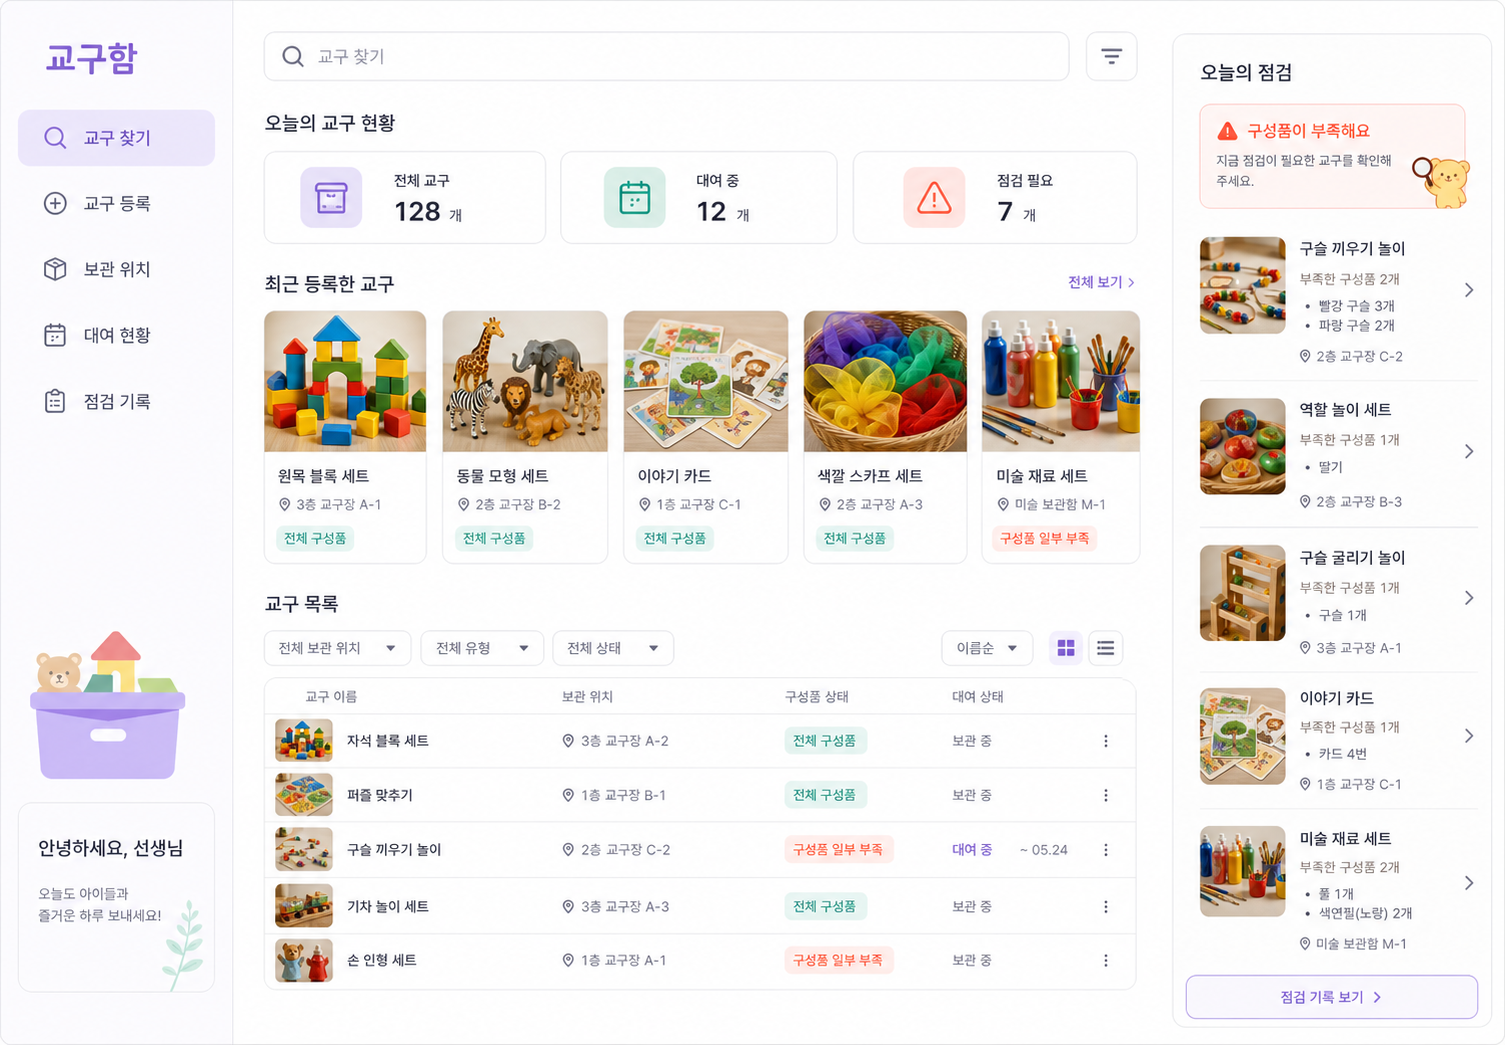
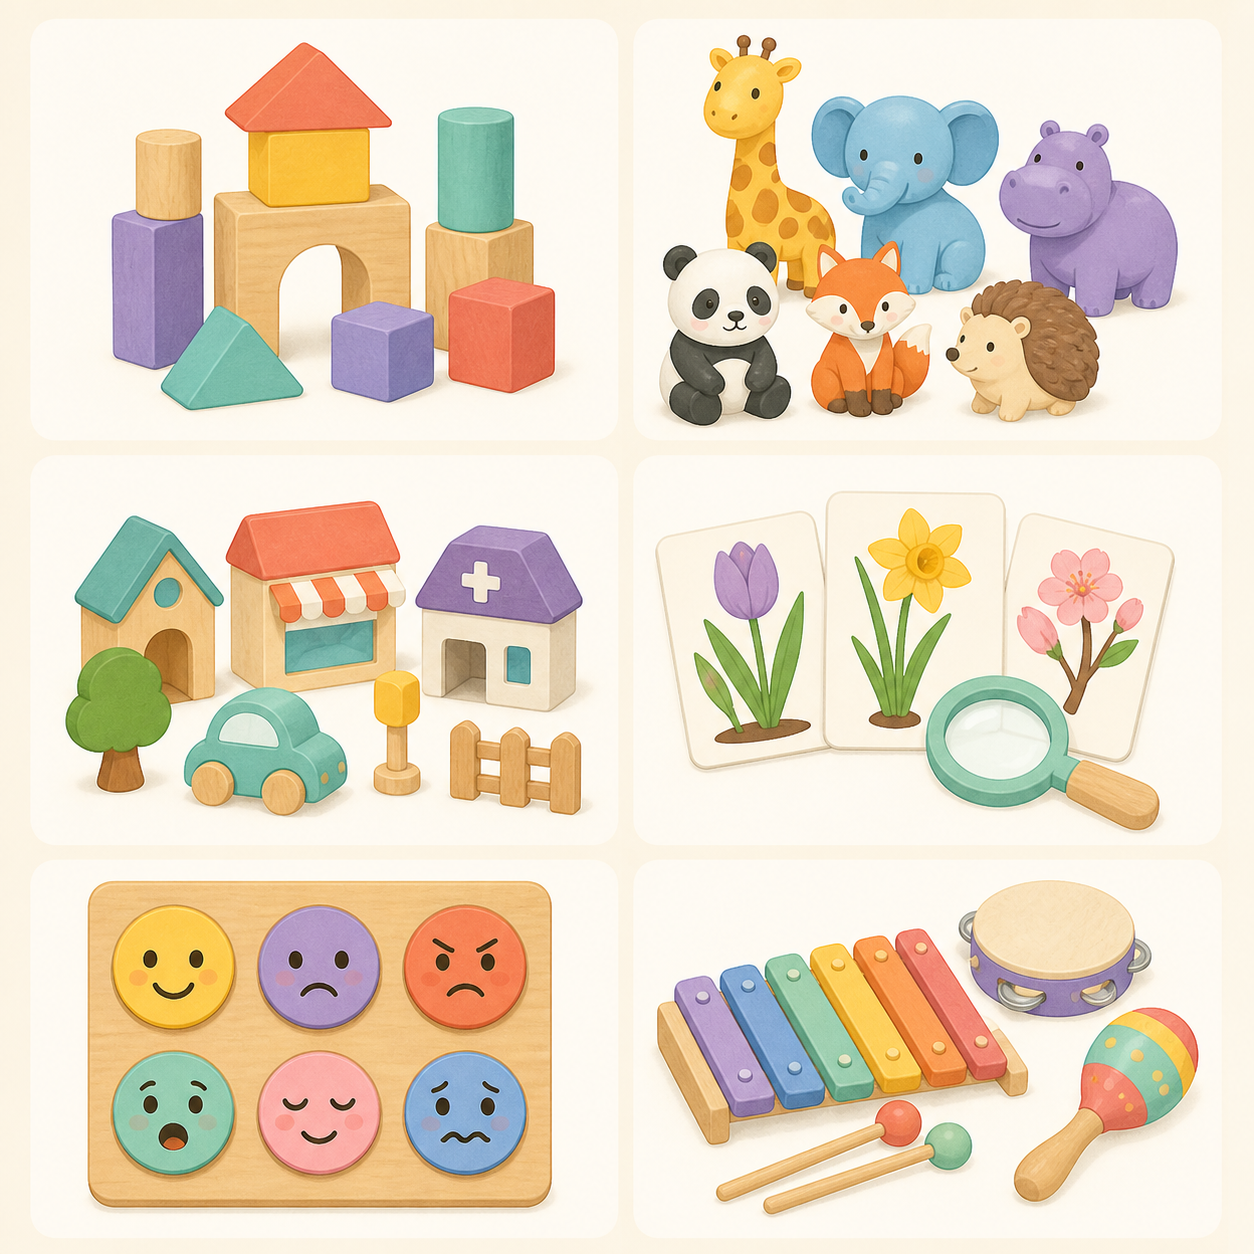
위치개선

diff --git a/index.html b/index.html
@@ -1,5 +1,2 @@
-<!doctype html><html lang="ko"><head><meta charset="UTF-8"><meta name="viewport" content="width=device-width,initial-scale=1"><title>놀잇감 지도</title><style>
-*{box-sizing:border-box}body{margin:0;background:#f7f8fc;color:#303047;font-family:Arial,'Noto Sans KR',sans-serif}.app{display:flex;min-height:100vh}.side{width:235px;background:#fff;border-right:1px solid #e8e8f0;padding:28px 18px}.brand{font-size:21px;font-weight:800;margin:0 8px 45px;color:#6258bb}.brand i{display:inline-grid;place-items:center;width:32px;height:32px;background:#8175d8;color:#fff;border-radius:11px;font-style:normal;margin-right:8px}.side h5{font-size:10px;color:#aaa8bb;letter-spacing:1px;margin:0 10px 13px}.nav{display:block;width:100%;padding:12px 13px;margin:4px 0;border:0;background:none;border-radius:10px;text-align:left;color:#77758b;cursor:pointer}.nav.active{background:#eeecff;color:#7064ce;font-weight:bold}.workspace{margin-top:45px;padding:18px 12px;background:#f3f2ff;border-radius:14px;color:#7064ce;font-size:12px;line-height:1.8}.workspace b{display:block;font-size:14px;color:#403b61}.main{flex:1;padding:27px 42px;max-width:1050px}.top{display:flex;gap:12px;align-items:center;margin-bottom:30px}.search{flex:1;background:#fff;border:1px solid #e6e5ee;border-radius:11px;padding:13px 16px;color:#aaa8bb}.search input{border:0;outline:0;width:90%;font-size:13px;margin-left:8px}.user{width:33px;height:33px;border-radius:50%;display:grid;place-items:center;background:#f2dfd4;color:#895d48}.hero{padding:29px 32px;background:#e6f7f0;border-radius:20px;display:flex;justify-content:space-between;align-items:center;margin-bottom:24px;position:relative;overflow:hidden}.hero:after{content:'✦  ◌  ⬡';position:absolute;right:28px;bottom:10px;font-size:37px;color:#a9d9c8;letter-spacing:10px}.hero h1{margin:3px 0 8px;font-size:27px;letter-spacing:-1.5px}.hero p{margin:0;color:#7b9c94;font-size:12px}.hero small{color:#8175d8;font-weight:bold;letter-spacing:1px}.button{border:0;border-radius:9px;background:#8175d8;color:white;padding:12px 16px;font-weight:bold;cursor:pointer;z-index:1}.tabs{background:#fff;border-radius:15px;padding:19px 21px;margin-bottom:22px;box-shadow:0 4px 14px #38365b08}.tabs h2{font-size:15px;margin:0 0 14px}.age button,.area button{border:0;background:#f5f4f9;border-radius:8px;padding:9px 13px;margin:0 5px 5px 0;color:#77758b;cursor:pointer}.age button.sel,.area button.sel{background:#39364f;color:white}.area{border-top:1px solid #eeeef4;padding-top:13px;margin-top:9px}.area:before{content:'놀이 영역';display:block;font-size:11px;color:#8175d8;font-weight:bold;margin-bottom:8px}.catalog-head{display:flex;justify-content:space-between;align-items:end;margin:29px 0 15px}.catalog-head h2{font-size:17px;margin:0 0 5px}.catalog-head p{font-size:11px;color:#aaa8b2;margin:0}.sort{border:1px solid #e6e5ee;background:#fff;padding:8px 11px;border-radius:8px;color:#77758b}.grid{display:grid;grid-template-columns:repeat(3,1fr);gap:15px}.card{background:#fff;border-radius:15px;overflow:hidden;box-shadow:0 5px 16px #38365b0d;cursor:pointer}.pic{height:125px;display:grid;place-items:center;position:relative}.pic img{width:100%;height:100%;object-fit:cover;mix-blend-mode:multiply;opacity:.82}.pic.one{background:#eae7ff}.pic.two{background:#dcf3eb}.pic.three{background:#fff0df}.stock{position:absolute;right:9px;top:9px;background:#fff;padding:5px 7px;border-radius:6px;color:#6b62c4;font-size:10px;font-weight:bold}.card-body{padding:14px}.card h3{font-size:13px;margin:0 0 10px}.tag{display:inline-block;background:#f4f3f7;border-radius:4px;padding:4px 6px;margin-right:4px;color:#858291;font-size:9px}.place{margin-top:13px;color:#77758b;font-size:10px}.place b{color:#6b62c4;font-weight:normal}.right{width:285px;background:#fff;border-left:1px solid #ebebf1;padding:36px 24px}.right h2{font-size:17px;margin:0 0 5px}.right p{font-size:11px;color:#aaa8b2}.map{height:210px;border:1px solid #e4e2ef;border-radius:14px;margin:24px 0 13px;padding:17px;background:#fafaff}.map-title{font-size:10px;color:#aaa8b2;margin-bottom:12px}.shelf{display:grid;grid-template-columns:repeat(3,1fr);gap:7px}.shelf div{height:43px;background:#eeedf8;border:1px solid #dfddf0;border-radius:7px;display:grid;place-items:center;font-size:10px;color:#8b88a0}.shelf .picked{background:#8175d8;color:#fff;border-color:#8175d8;box-shadow:0 5px 10px #8175d855}.selected-info{background:#f3f2ff;border-radius:12px;padding:13px;font-size:11px;line-height:1.7}.selected-info b{font-size:13px}.rent{margin-top:24px;border-top:1px solid #eeeef4;padding-top:20px}.rent-row{display:flex;justify-content:space-between;padding:11px 0;border-bottom:1px solid #f0eff4;font-size:11px}.rent-row span{color:#8175d8}.modal{position:fixed;inset:0;background:#28274455;display:none;place-items:center}.modal.on{display:grid}.form{width:400px;background:#fff;border-radius:17px;padding:28px}.form h2{margin:0 0 7px;font-size:20px}.form p{color:#aaa8b2;font-size:11px;margin:0 0 20px}.form label{display:block;font-size:11px;font-weight:bold;margin:12px 0}.form input,.form select{width:100%;padding:10px;margin-top:6px;border:1px solid #e5e4ed;border-radius:8px}.form .button{width:100%;margin-top:12px}.close{float:right;border:0;background:none;font-size:22px;color:#aaa;cursor:pointer}@media(max-width:1050px){.right{display:none}.grid{grid-template-columns:repeat(2,1fr)}}@media(max-width:650px){.side{display:none}.main{padding:20px}.grid{grid-template-columns:1fr}.hero{padding:24px;display:block}.hero .button{margin-top:18px}.top{flex-wrap:wrap}.search{flex-basis:100%}}
-</style></head><body><div class="app"><aside class="side"><div class="brand"><i>⌖</i>놀잇감 지도</div><h5>EXPLORE</h5><button class="nav active">⌖ 놀잇감 찾기</button><button class="nav" onclick="openRent()">□ 대여 현황</button><button class="nav" onclick="openForm()">＋ 놀잇감 등록</button><div class="workspace"><b>햇살어린이집</b>교구실 · 3번 선반 · B-02<br>현재 248개의 놀잇감</div></aside><main class="main"><div class="top"><div class="search">⌕<input id="search" oninput="filter()" placeholder="놀잇감 이름으로 검색해보세요"></div><div class="user">김</div></div><section class="hero"><div><small>PLAY MATERIAL MAP</small><h1>필요한 놀잇감,<br>어디에 있는지 바로 찾아요</h1><p>연령과 놀이 영역을 선택하고 보관 위치를 확인해보세요.</p></div><button class="button" onclick="openForm()">＋ 놀잇감 등록</button></section><section class="tabs"><h2>우리 반 놀잇감 둘러보기</h2><div class="age"><button class="sel" onclick="agePick(this)">전체</button><button onclick="agePick(this)">만 3세</button><button onclick="agePick(this)">만 4세</button><button onclick="agePick(this)">만 5세</button></div><div class="area"><button class="sel">전체</button><button>쌓기놀이</button><button>역할놀이</button><button>언어놀이</button><button>자연탐구</button><button>음률놀이</button></div></section><div class="catalog-head"><div><h2>놀잇감 목록</h2><p>선택한 놀잇감을 누르면 오른쪽 지도에서 위치를 확인할 수 있어요.</p></div><select class="sort"><option>최근 등록순</option><option>이름순</option></select></div><div class="grid" id="grid"><article class="card" data-name="동물원 만들기 세트" onclick="pick('동물원 만들기 세트','만 4세 · 역할놀이','교구실 · 3번 선반 · B-02')"><div class="pic one"><img src="assets/concept.png"><span class="stock">2세트</span></div><div class="card-body"><h3>동물원 만들기 세트</h3><span class="tag">만 4세</span><span class="tag">역할놀이</span><div class="place">⌖ 교구실 · 3번 선반 · <b>B-02</b></div></div></article><article class="card" data-name="우리 동네 역할놀이" onclick="pick('우리 동네 역할놀이','만 5세 · 역할놀이','역할놀이장 · A-01')"><div class="pic two"><img src="assets/concept.png"><span class="stock">1세트</span></div><div class="card-body"><h3>우리 동네 역할놀이</h3><span class="tag">만 5세</span><span class="tag">역할놀이</span><div class="place">⌖ 역할놀이장 · <b>A-01</b></div></div></article><article class="card" data-name="봄꽃 관찰 카드" onclick="pick('봄꽃 관찰 카드','만 3세 · 자연탐구','자료실 · C-03')"><div class="pic three"><img src="assets/concept.png"><span class="stock">24장</span></div><div class="card-body"><h3>봄꽃 관찰 카드</h3><span class="tag">만 3세</span><span class="tag">자연탐구</span><div class="place">⌖ 자료실 · <b>C-03</b></div></div></article></div></main><aside class="right"><h2>보관 위치</h2><p>선택한 놀잇감이 있는 곳이에요.</p><div class="map"><div class="map-title">교구실 · 3번 선반</div><div class="shelf"><div>A-01</div><div>A-02</div><div>A-03</div><div>B-01</div><div class="picked">B-02</div><div>B-03</div><div>C-01</div><div>C-02</div><div>C-03</div></div></div><div class="selected-info"><b id="picked-name">동물원 만들기 세트</b><br><span id="picked-meta">만 4세 · 역할놀이</span><br>● <span id="picked-place">교구실 · 3번 선반 · B-02</span></div><div class="rent"><h2>대여 중</h2><div class="rent-row">우리 동네 역할놀이 <span>무지개반</span></div><div class="rent-row">동물 피규어 세트 <span>햇살반</span></div></div></aside></div><div class="modal" id="formModal"><form class="form" onsubmit="save(event)"><button type="button" class="close" onclick="closeModal()">×</button><h2>놀잇감 등록하기</h2><p>이름과 위치만 입력해도 관리가 시작돼요.</p><label>놀잇감명<input id="newName" required placeholder="예: 동물 피규어 세트"></label><label>연령<select id="newAge"><option>만 3세</option><option>만 4세</option><option>만 5세</option></select></label><label>놀이 영역<select><option>쌓기놀이</option><option>역할놀이</option><option>언어놀이</option><option>자연탐구</option><option>음률놀이</option></select></label><label>보관 위치<input id="newPlace" required placeholder="예: 교구실 · 3번 선반 · B-02"></label><button class="button">목록에 저장하기</button></form></div><div class="modal" id="rentModal"><section class="form"><button class="close" onclick="closeRent()">×</button><h2>대여 현황</h2><p>현재 다른 반에서 사용 중인 놀잇감입니다.</p><div class="rent-row">우리 동네 역할놀이 <span>무지개반 · 오늘 반납</span></div><div class="rent-row">동물 피규어 세트 <span>햇살반 · 내일 반납</span></div><button class="button" onclick="closeRent()">확인했어요</button></section></div><script>
-function openForm(){document.getElementById('formModal').classList.add('on')}function closeModal(){document.getElementById('formModal').classList.remove('on')}function openRent(){document.getElementById('rentModal').classList.add('on')}function closeRent(){document.getElementById('rentModal').classList.remove('on')}function pick(n,m,p){document.getElementById('picked-name').textContent=n;document.getElementById('picked-meta').textContent=m;document.getElementById('picked-place').textContent=p}function agePick(b){document.querySelectorAll('.age button').forEach(x=>x.classList.remove('sel'));b.classList.add('sel')}function filter(){let q=document.getElementById('search').value.toLowerCase();document.querySelectorAll('.card').forEach(c=>c.style.display=c.dataset.name.toLowerCase().includes(q)?'block':'none')}function save(e){e.preventDefault();let n=document.getElementById('newName').value,p=document.getElementById('newPlace').value;let c=document.createElement('article');c.className='card';c.dataset.name=n;c.innerHTML='<div class="pic one"><img src="assets/concept.png"><span class="stock">신규</span></div><div class="card-body"><h3>'+n+'</h3><span class="tag">'+document.getElementById('newAge').value+'</span><div class="place">⌖ '+p+'</div></div>';c.onclick=()=>pick(n,document.getElementById('newAge').value,p);document.getElementById('grid').prepend(c);closeModal();e.target.reset();alert('놀잇감이 등록되었어요.')} 
-</script></body></html>
+<!doctype html><html lang="ko"><head><meta charset="UTF-8"><meta name="viewport" content="width=device-width,initial-scale=1"><title>놀잇감 지도</title><style>body{margin:0;background:#f7f8fc;color:#34334b;font:14px Arial,sans-serif}.app{display:flex;min-height:100vh}.side{width:220px;background:#fff;border-right:1px solid #e8e7f0;padding:28px 16px}.brand{font-size:20px;font-weight:800;color:#6b60c8;margin:0 8px 45px}.brand b{display:inline-grid;place-items:center;background:#8175d8;color:#fff;border-radius:10px;width:32px;height:32px;margin-right:8px}.nav{width:100%;display:block;border:0;background:none;padding:13px;border-radius:9px;text-align:left;color:#77758b;margin:3px 0;cursor:pointer}.nav.active{background:#efedff;color:#6b60c8;font-weight:bold}.main{flex:1;padding:28px 40px;max-width:1000px}.top{display:flex;gap:12px;margin-bottom:28px}.search{background:white;border:1px solid #e7e5ef;border-radius:10px;padding:12px 15px;flex:1;color:#999}.search input{border:0;outline:0;width:90%;font-size:13px;margin-left:8px}.hero{background:#def4eb;border-radius:20px;padding:28px 30px;display:flex;justify-content:space-between;align-items:center;margin-bottom:22px}.hero h1{font-size:27px;margin:7px 0}.hero p{color:#73968d;margin:0;font-size:12px}.hero small{color:#7568cf;font-weight:bold;letter-spacing:1px}.button{background:#8175d8;border:0;border-radius:9px;color:#fff;padding:12px 15px;font-weight:bold;cursor:pointer}.tabs,.card{background:#fff;border-radius:14px;box-shadow:0 4px 15px #3b37610b}.tabs{padding:18px 20px}.tabs h2,.right h2{font-size:16px;margin:0 0 13px}.tabs button{border:0;background:#f4f3f8;color:#77758b;padding:9px 12px;border-radius:8px;margin:0 5px 5px 0;cursor:pointer}.tabs button.sel{background:#3d3a55;color:#fff}.area{border-top:1px solid #eeeef3;margin-top:10px;padding-top:13px}.area:before{content:'놀이 영역';display:block;color:#7568cf;font-size:11px;font-weight:bold;margin-bottom:7px}.head{display:flex;justify-content:space-between;align-items:end;margin:28px 0 14px}.head h2{font-size:17px;margin:0 0 5px}.head p{font-size:11px;color:#aaa8b2;margin:0}.grid{display:grid;grid-template-columns:repeat(3,1fr);gap:15px}.card{overflow:hidden;cursor:pointer}.pic{height:120px;display:grid;place-items:center;position:relative}.pic img{width:100%;height:100%;object-fit:cover;mix-blend-mode:multiply;opacity:.82}.one{background:#eae7ff}.two{background:#dcf3eb}.three{background:#fff0df}.stock{position:absolute;right:9px;top:9px;background:#fff;padding:5px 7px;border-radius:6px;color:#6b60c8;font-size:10px}.body{padding:14px}.body h3{font-size:13px;margin:0 0 9px}.tag{background:#f4f3f8;border-radius:4px;padding:4px 6px;margin-right:4px;font-size:9px;color:#858291}.place{font-size:10px;color:#77758b;margin-top:13px}.place b{color:#6b60c8}.right{width:275px;background:#fff;border-left:1px solid #e9e8ef;padding:35px 23px}.right p{font-size:11px;color:#aaa8b2}.map{border:1px solid #e5e3ef;border-radius:13px;padding:15px;background:#fafaff;margin:22px 0 12px}.map-title{font-size:10px;color:#aaa8b2;margin-bottom:11px}.shelf{display:grid;grid-template-columns:repeat(3,1fr);gap:7px}.shelf button{height:42px;border:1px solid #e0def0;background:#efeff8;border-radius:7px;color:#88859c;cursor:pointer}.shelf button.selected{background:#8175d8;color:#fff;box-shadow:0 5px 12px #8175d855}.info{background:#f1efff;padding:13px;border-radius:11px;font-size:11px;line-height:1.7}.info strong{font-size:13px}.modal{position:fixed;inset:0;background:#28274455;display:none;place-items:center}.modal.on{display:grid}.form{width:390px;background:#fff;border-radius:16px;padding:27px}.form h2{margin:0 0 6px}.form p{font-size:11px;color:#aaa8b2}.form label{display:block;font-size:11px;font-weight:bold;margin:13px 0}.form input,.form select{display:block;width:100%;padding:10px;margin-top:6px;border:1px solid #e5e4ed;border-radius:8px}.location-picker{display:grid;grid-template-columns:repeat(3,1fr);gap:6px;margin-top:8px}.location-picker button{padding:9px 4px;border:1px solid #e5e4ed;background:#f7f6fb;border-radius:6px;color:#77758b;cursor:pointer}.location-picker button.selected{background:#8175d8;color:#fff}.close{float:right;border:0;background:none;font-size:22px;color:#aaa;cursor:pointer}@media(max-width:1050px){.right{display:none}.grid{grid-template-columns:repeat(2,1fr)}}@media(max-width:650px){.side{display:none}.main{padding:20px}.grid{grid-template-columns:1fr}.hero{display:block}.hero .button{margin-top:16px}}
+</style></head><body><div class="app"><aside class="side"><div class="brand"><b>⌖</b>놀잇감 지도</div><button class="nav active">⌖ 놀잇감 찾기</button><button class="nav" onclick="document.getElementById('rent').classList.add('on')">□ 대여 현황</button><button class="nav" onclick="openForm()">＋ 놀잇감 등록</button></aside><main class="main"><div class="top"><div class="search">⌕<input id="q" oninput="filter()" placeholder="놀잇감 이름으로 검색해보세요"></div></div><section class="hero"><div><small>PLAY MATERIAL MAP</small><h1>필요한 놀잇감,<br>어디에 있는지 바로 찾아요</h1><p>놀잇감을 선택하면 교구장 위치가 표시됩니다.</p></div><button class="button" onclick="openForm()">＋ 놀잇감 등록</button></section><section class="tabs"><h2>연령별 놀잇감 찾기</h2><div class="age"><button class="sel">전체</button><button>만 3세</button><button>만 4세</button><button>만 5세</button></div><div class="area"><button class="sel">전체</button><button>쌓기놀이</button><button>역할놀이</button><button>언어놀이</button><button>자연탐구</button><button>음률놀이</button></div></section><div class="head"><div><h2>놀잇감 목록</h2><p>카드를 클릭하면 오른쪽 지도에서 위치를 확인할 수 있어요.</p></div></div><div class="grid" id="grid"><article class="card" data-name="동물원 만들기 세트" onclick="pick('동물원 만들기 세트','만 4세 · 역할놀이','B-02')"><div class="pic one"><img src="assets/concept.png"><span class="stock">2세트</span></div><div class="body"><h3>동물원 만들기 세트</h3><span class="tag">만 4세</span><span class="tag">역할놀이</span><div class="place">⌖ 교구실 · 3번 선반 · <b>B-02</b></div></div></article><article class="card" data-name="우리 동네 역할놀이" onclick="pick('우리 동네 역할놀이','만 5세 · 역할놀이','A-01')"><div class="pic two"><img src="assets/concept.png"><span class="stock">1세트</span></div><div class="body"><h3>우리 동네 역할놀이</h3><span class="tag">만 5세</span><span class="tag">역할놀이</span><div class="place">⌖ 역할놀이장 · <b>A-01</b></div></div></article><article class="card" data-name="봄꽃 관찰 카드" onclick="pick('봄꽃 관찰 카드','만 3세 · 자연탐구','C-03')"><div class="pic three"><img src="assets/concept.png"><span class="stock">24장</span></div><div class="body"><h3>봄꽃 관찰 카드</h3><span class="tag">만 3세</span><span class="tag">자연탐구</span><div class="place">⌖ 자료실 · <b>C-03</b></div></div></article></div></main><aside class="right"><h2>보관 위치</h2><p>선택한 놀잇감의 교구장 위치입니다.</p><div class="map"><div class="map-title">교구실 · 3번 선반</div><div class="shelf">${['A-01','A-02','A-03','B-01','B-02','B-03','C-01','C-02','C-03'].map(x=>`<button id="loc-${x}" onclick="chooseLocation('${x}')">${x}</button>`).join('')}</div></div><div class="info"><strong id="pn">동물원 만들기 세트</strong><br><span id="pm">만 4세 · 역할놀이</span><br>⌖ 교구실 · 3번 선반 · <b id="pp">B-02</b></div></aside></div><div class="modal" id="form"><form class="form" onsubmit="save(event)"><button type="button" class="close" onclick="closeForm()">×</button><h2>놀잇감 등록</h2><p>위치를 직접 입력하거나 교구장 칸을 눌러 선택하세요.</p><label>놀잇감명<input id="nn" required placeholder="예: 동물 피규어 세트"></label><label>보관 위치<input id="np" required placeholder="예: 교구실 · 3번 선반 · B-02"><div class="location-picker">${['A-01','A-02','A-03','B-01','B-02','B-03','C-01','C-02','C-03'].map(x=>`<button type="button" onclick="setPlace('${x}',this)">${x}</button>`).join('')}</div></label><button class="button">저장하기</button></form></div><div class="modal" id="rent"><section class="form"><button class="close" onclick="this.closest('.modal').classList.remove('on')">×</button><h2>대여 현황</h2><p>현재 다른 반에서 사용 중인 놀잇감입니다.</p><div class="place">우리 동네 역할놀이 · 무지개반 · 오늘 반납</div><div class="place">동물 피규어 세트 · 햇살반 · 내일 반납</div></section></div><script>function openForm(){form.classList.add('on')}function closeForm(){form.classList.remove('on')}function setPlace(x,b){np.value='교구실 · 3번 선반 · '+x;document.querySelectorAll('.location-picker button').forEach(y=>y.classList.remove('selected'));b.classList.add('selected')}function pick(n,m,p){pn.textContent=n;pm.textContent=m;pp.textContent=p;document.querySelectorAll('.shelf button').forEach(x=>x.classList.remove('selected'));document.getElementById('loc-'+p).classList.add('selected')}function chooseLocation(p){pp.textContent=p}function filter(){let q=document.getElementById('q').value.toLowerCase();document.querySelectorAll('.card').forEach(c=>c.style.display=c.dataset.name.toLowerCase().includes(q)?'block':'none')}function save(e){e.preventDefault();alert('놀잇감과 보관 위치가 저장되었습니다.');closeForm();e.target.reset()}</script></body></html>
